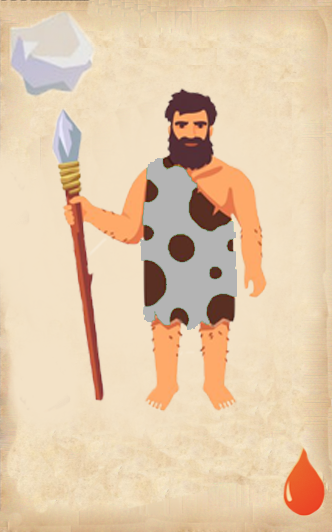
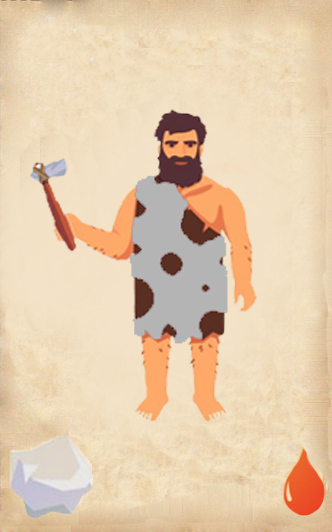
Исправлены баги; сделанно отображение атаки и жизни карт

diff --git a/main.py b/main.py
@@ -8,7 +8,8 @@ bot_cards = []
 list = []
 bot_place_occupied = []
 my_place_occupied = []
-inventory_player = []
+inventory_player = [(7, 3, 'card_1_1'), (2, 6, 'card_1_2'), (3, 3, 'card_1_3')]
+
 
 class BaseGame:
     def __init__(self):
@@ -19,15 +20,17 @@ class BaseGame:
         self.inventory_card = pygame.sprite.Group()
         self.vil_x, self.vil_y, self.x_old, self.y_old, self.x_new, self.y_new = 1000, 550, 0, 0, 0, 0
         self.my_hp = 15
-        self.bot_hp =15
+        self.bot_hp = 15
         self.move = False
         self.movement = False
         self.vil = ()
         self.close = False
         self.ch = False
         self.deck = [(1, 1, 'card_1_1'), (1, 2, 'card_1_2'), (1, 3, 'card_1_3'), (1, 4, 'card_1_4'), (1, 5, 'card_1_5'),
-        (2, 1, 'card_2_1'), (2, 2, 'card_2_2'), (2, 3, 'card_2_3'), (2, 4, 'card_2_4'), (2, 5, 'card_2_5'),
-        (3, 1, 'card_3_1'), (3, 2, 'card_3_2'), (3, 3, 'card_3_3'), (3, 4, 'card_3_4'), (3, 5, 'card_3_5')]
+                     (1, 1, 'card_1_1'), (1, 2, 'card_1_2'), (1, 3, 'card_1_3'), (1, 4, 'card_1_4'), (1, 5, 'card_1_5')]
+        # self.deck = [(1, 1, 'card_1_1'), (1, 2, 'card_1_2'), (1, 3, 'card_1_3'), (1, 4, 'card_1_4'), (1, 5, 'card_1_5'),
+        # (2, 1, 'card_2_1'), (2, 2, 'card_2_2'), (2, 3, 'card_2_3'), (2, 4, 'card_2_4'), (2, 5, 'card_2_5'),
+        # (3, 1, 'card_3_1'), (3, 2, 'card_3_2'), (3, 3, 'card_3_3'), (3, 4, 'card_3_4'), (3, 5, 'card_3_5')]
         self.eb = EasyBot()
         self.updete_image()
 
@@ -58,6 +61,10 @@ class BaseGame:
             image = self.load_image(self.vil[2] + '.png')
             image1 = pygame.transform.scale(image, (150, 225))
             self.spr = self.screen.blit(image1, (1000, 550))
+            dm, hp, img = self.vil
+            font = pygame.font.Font(None, 30)
+            text = font.render(f"{dm}                 {hp}", True, (0, 0, 0))
+            self.screen.blit(text, (1015, 745))
             self.vil_x, self.vil_y = 1000, 550
         image = self.load_image('pole.png')
         image1 = pygame.transform.scale(image, (150, 225))
@@ -74,12 +81,24 @@ class BaseGame:
                 image1 = pygame.transform.scale(image, (150, 225))
                 if i[-1] == 0:
                     self.screen.blit(image1, (150, 450))
+                    font = pygame.font.Font(None, 30)
+                    text = font.render(f"{i[0]}                 {i[1]}", True, (0, 0, 0))
+                    self.screen.blit(text, (165, 645))
                 elif i[-1] == 1:
                     self.screen.blit(image1, (350, 450))
+                    font = pygame.font.Font(None, 30)
+                    text = font.render(f"{i[0]}                 {i[1]}", True, (0, 0, 0))
+                    self.screen.blit(text, (365, 645))
                 elif i[-1] == 2:
                     self.screen.blit(image1, (550, 450))
+                    font = pygame.font.Font(None, 30)
+                    text = font.render(f"{i[0]}                 {i[1]}", True, (0, 0, 0))
+                    self.screen.blit(text, (565, 645))
                 elif i[-1] == 3:
                     self.screen.blit(image1, (750, 450))
+                    font = pygame.font.Font(None, 30)
+                    text = font.render(f"{i[0]}                 {i[1]}", True, (0, 0, 0))
+                    self.screen.blit(text, (765, 645))
                 else:
                     del list[list.index(i)]
         if bot_cards:
@@ -89,15 +108,26 @@ class BaseGame:
                 image1 = pygame.transform.scale(image, (150, 225))
                 if i[-1] == 0:
                     self.screen.blit(image1, (150, 100))
+                    font = pygame.font.Font(None, 30)
+                    text = font.render(f"{i[0]}                 {i[1]}", True, (0, 0, 0))
+                    self.screen.blit(text, (165, 295))
                 elif i[-1] == 1:
                     self.screen.blit(image1, (350, 100))
+                    font = pygame.font.Font(None, 30)
+                    text = font.render(f"{i[0]}                 {i[1]}", True, (0, 0, 0))
+                    self.screen.blit(text, (365, 295))
                 elif i[-1] == 2:
                     self.screen.blit(image1, (550, 100))
+                    font = pygame.font.Font(None, 30)
+                    text = font.render(f"{i[0]}                 {i[1]}", True, (0, 0, 0))
+                    self.screen.blit(text, (565, 295))
                 elif i[-1] == 3:
                     self.screen.blit(image1, (750, 100))
+                    font = pygame.font.Font(None, 30)
+                    text = font.render(f"{i[0]}                 {i[1]}", True, (0, 0, 0))
+                    self.screen.blit(text, (765, 295))
                 else:
                     del list[list.index(i)]
-
 
         for i in range(len(inventory_player)):
             x = 400 + i * 30
@@ -110,16 +140,18 @@ class BaseGame:
         image = self.load_image('move.png')
         image1 = pygame.transform.scale(image, (100, 50))
         self.screen.blit(image1, (10, 360))
-
-        font = pygame.font.Font(None, 30)
-        text = font.render(f"{len(self.deck)}/35", True, (227, 37, 107))
-        self.screen.blit(text, (1000, 530))
         if None != cart:
             pass
         if self.deck:
             image = self.load_image('carta3.png')
             image1 = pygame.transform.scale(image, (200, 300))
             self.screen.blit(image1, (990, 200))
+            font = pygame.font.Font(None, 30)
+            text = font.render(f"{len(self.deck)}/35", True, (255, 255, 255))
+            self.screen.blit(text, (1100, 530))
+        font = pygame.font.Font(None, 30)
+        text = font.render(f"{self.my_hp}/{self.bot_hp}", True, (255, 255, 255))
+        self.screen.blit(text, (1100, 30))
         if self.movement:
             self.dragging()
 
@@ -153,6 +185,10 @@ class BaseGame:
             image = self.load_image(name_image + '.png')
             image1 = pygame.transform.scale(image, (150, 225))
             self.screen.blit(image1, (x, y))
+            dm, hp, img = inventory_player[i - 2]
+            font = pygame.font.Font(None, 30)
+            text = font.render(f"{dm}                 {hp}", True, (0, 0, 0))
+            self.screen.blit(text, (x + 15, y + 195))
 
     def click_card(self):
         index = None
@@ -189,6 +225,9 @@ class BaseGame:
             image = self.load_image(self.vil[2] + '.png')
             image1 = pygame.transform.scale(image, (150, 225))
             self.spr = self.screen.blit(image1, (self.vil_x, self.vil_y))
+            font = pygame.font.Font(None, 30)
+            text = font.render(f"{self.vil[0]}                 {self.vil[1]}", True, (0, 0, 0))
+            self.screen.blit(text, (self.vil_x + 15, self.vil_y + 195))
 
     def functions(self):
         mouse_pos = self.mouse_pos
@@ -227,8 +266,7 @@ class BaseGame:
             bot_cards.append((dm, hp, img, self.place_bot))
             bot_place_occupied.append(self.place_bot)
             self.deck = new_deck
-            self.attack('bot')
-
+        self.attack('bot')
 
     def attack(self, side):
         if side == 'bot':
@@ -237,7 +275,7 @@ class BaseGame:
                 if i in my_place_occupied:
                     try:
                         my_dm, my_hp, my_img, my_ind = my_cards[my_place_occupied.index(i)]
-                        if my_hp - bot_dm < 0:
+                        if my_hp - bot_dm <= 0:
                             del my_cards[my_place_occupied.index(i)]
                             del my_place_occupied[my_place_occupied.index(i)]
                         else:
@@ -252,7 +290,8 @@ class BaseGame:
                 if i in bot_place_occupied:
                     try:
                         bot_dm, bot_hp, bot_img, bot_ind = bot_cards[bot_place_occupied.index(i)]
-                        if bot_hp - my_dm < 0:
+                        if bot_hp - my_dm <= 0:
+                            self.eb.choice_card(bot_place_occupied.index(i))
                             del bot_cards[bot_place_occupied.index(i)]
                             del bot_place_occupied[bot_place_occupied.index(i)]
                         else:
@@ -261,12 +300,7 @@ class BaseGame:
                         self.bot_hp -= my_dm
                 else:
                     self.bot_hp -= my_dm
-        print('Твои жизни', self.my_hp)
-        print('Жизни бота', self.bot_hp)
         self.updete_image()
-
-
-
 
     def run(self, update=False):
         if update == False:
@@ -289,6 +323,7 @@ class BaseGame:
             pygame.display.flip()
             self.clock.tick(60)
         pygame.quit()
+
 
 base_game = BaseGame()
 base_game.run()

diff --git a/easybot.py b/easybot.py
@@ -17,16 +17,19 @@ class EasyBot():
         self.card = []
         return card, self.place, self.deck
 
-    def choice_card(self):
-        if self.deck and len(inventory_bot) < 6:
-            self.new_card = choice(self.deck)
-            del self.deck[self.deck.index(self.new_card)]
-            inventory_bot.append(self.new_card)
-        if inventory_bot:
-            self.card = choice(inventory_bot)
-            del inventory_bot[inventory_bot.index(self.card)]
+    def choice_card(self, delete=None):
+        if delete == None:
+            if self.deck and len(inventory_bot) < 6:
+                self.new_card = choice(self.deck)
+                del self.deck[self.deck.index(self.new_card)]
+                inventory_bot.append(self.new_card)
+            if inventory_bot and len(self.place_occupied) < 4:
+                self.card = choice(inventory_bot)
+                del inventory_bot[inventory_bot.index(self.card)]
+            else:
+                self.card = None
         else:
-            self.card = None
+            del self.place_occupied[delete]
 
     def choice_place(self):
         breakk = False
